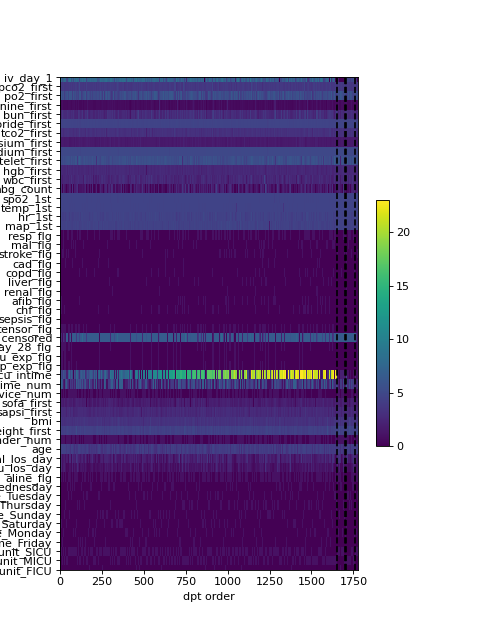
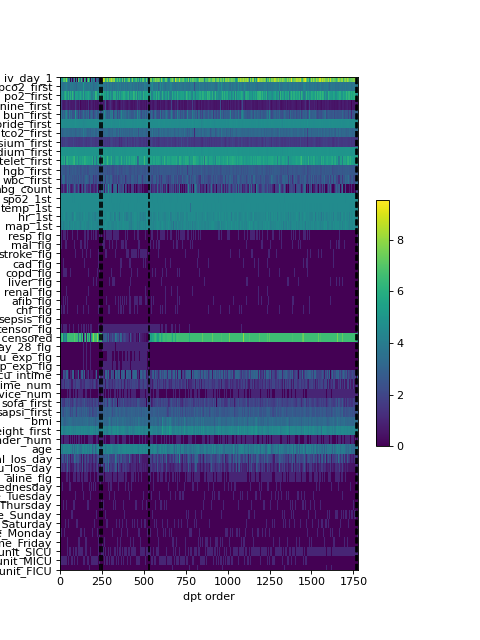
fix and adjust tests to infer feature type behaviour

diff --git a/tests/preprocessing/test_highly_variable_features.py b/tests/preprocessing/test_highly_variable_features.py
@@ -2,7 +2,7 @@ import ehrdata as ed
 import numpy as np
 import pytest
 import requests
-from ehrdata.core.constants import DEFAULT_TEM_LAYER_NAME
+from ehrdata.core.constants import DEFAULT_TEM_LAYER_NAME, FEATURE_TYPE_KEY, NUMERIC_TAG
 
 import ehrapy as ep
 from ehrapy.preprocessing._highly_variable_features import highly_variable_features
@@ -26,7 +26,7 @@ def test_highly_variable_features(clean_up_plots):
             pytest.skip("Dataset download failed with 403 Forbidden")
         raise
 
-    ep.pp.knn_impute(edata)
+    ep.pp.knn_impute(edata, var_names=edata.var_names[edata.var[FEATURE_TYPE_KEY] == NUMERIC_TAG])
     highly_variable_features(edata)
 
     assert "highly_variable" in edata.var.columns
@@ -37,6 +37,6 @@ def test_highly_variable_features(clean_up_plots):
 
     edata = ed.dt.diabetes_130_fairlearn()
     edata = ep.pp.encode(edata, autodetect=True)
-    ep.pp.knn_impute(edata)
+    ep.pp.knn_impute(edata, var_names=edata.var_names[edata.var[FEATURE_TYPE_KEY] == NUMERIC_TAG])
     highly_variable_features(edata, top_features_percentage=0.5)
     assert edata.var["highly_variable"].sum() == 31

diff --git a/tests/plot/test_scanpy_pl_api.py b/tests/plot/test_scanpy_pl_api.py
@@ -1,5 +1,6 @@
 from pathlib import Path
 
+import ehrdata as ed
 import matplotlib as mpl
 import matplotlib.collections as mcoll
 import pandas as pd
@@ -14,7 +15,7 @@ plt.style.use("default")
 import os
 
 import numpy as np
-from ehrdata.core.constants import DEFAULT_TEM_LAYER_NAME
+from ehrdata.core.constants import DEFAULT_TEM_LAYER_NAME, FEATURE_TYPE_KEY, NUMERIC_TAG
 
 import ehrapy as ep
 
@@ -660,7 +661,7 @@ def test_diffmap(mimic_2_sample_serv_unit_day_icu, check_same_image):
 def test_dpt_timeseries(mimic_2_encoded, check_same_image):
     edata = mimic_2_encoded.copy()
 
-    ep.pp.knn_impute(edata)
+    ep.pp.knn_impute(edata, backend="scikit-learn", var_names=edata.var_names[edata.var[FEATURE_TYPE_KEY] == NUMERIC_TAG])
     ep.pp.log_norm(edata, offset=1)
     ep.pp.pca(edata)
     ep.pp.neighbors(edata, method="gauss")

diff --git a/tests/conftest.py b/tests/conftest.py
@@ -137,6 +137,8 @@ def mimic_2():
 @pytest.fixture
 def mimic_2_encoded():
     edata = ed.dt.mimic_2()
+    # replace NaN in gender_num with most frequent value to avoid NaN in categorical without introducing 3rd category
+    ep.pp.simple_impute(edata, var_names=["gender_num"], strategy="most_frequent")
     ed.infer_feature_types(edata, output=None)
     edata = ep.pp.encode(edata, autodetect=True)
 

diff --git a/tests/preprocessing/test_normalization.py b/tests/preprocessing/test_normalization.py
@@ -708,7 +708,7 @@ def test_offset_negative_values():
 def test_norm_numerical_only():
     to_normalize_edata = ed.EHRData(X=np.array([[1, 0, 0], [0, 0, 1]], dtype=np.float32))
     expected_edata = ed.EHRData(X=np.array([[0.6931472, 0, 0], [0, 0, 0.6931472]], dtype=np.float32))
-
+    ed.infer_feature_types(to_normalize_edata, binary_as="numeric")
     assert np.array_equal(expected_edata.X, ep.pp.log_norm(to_normalize_edata, copy=True).X)
 
 